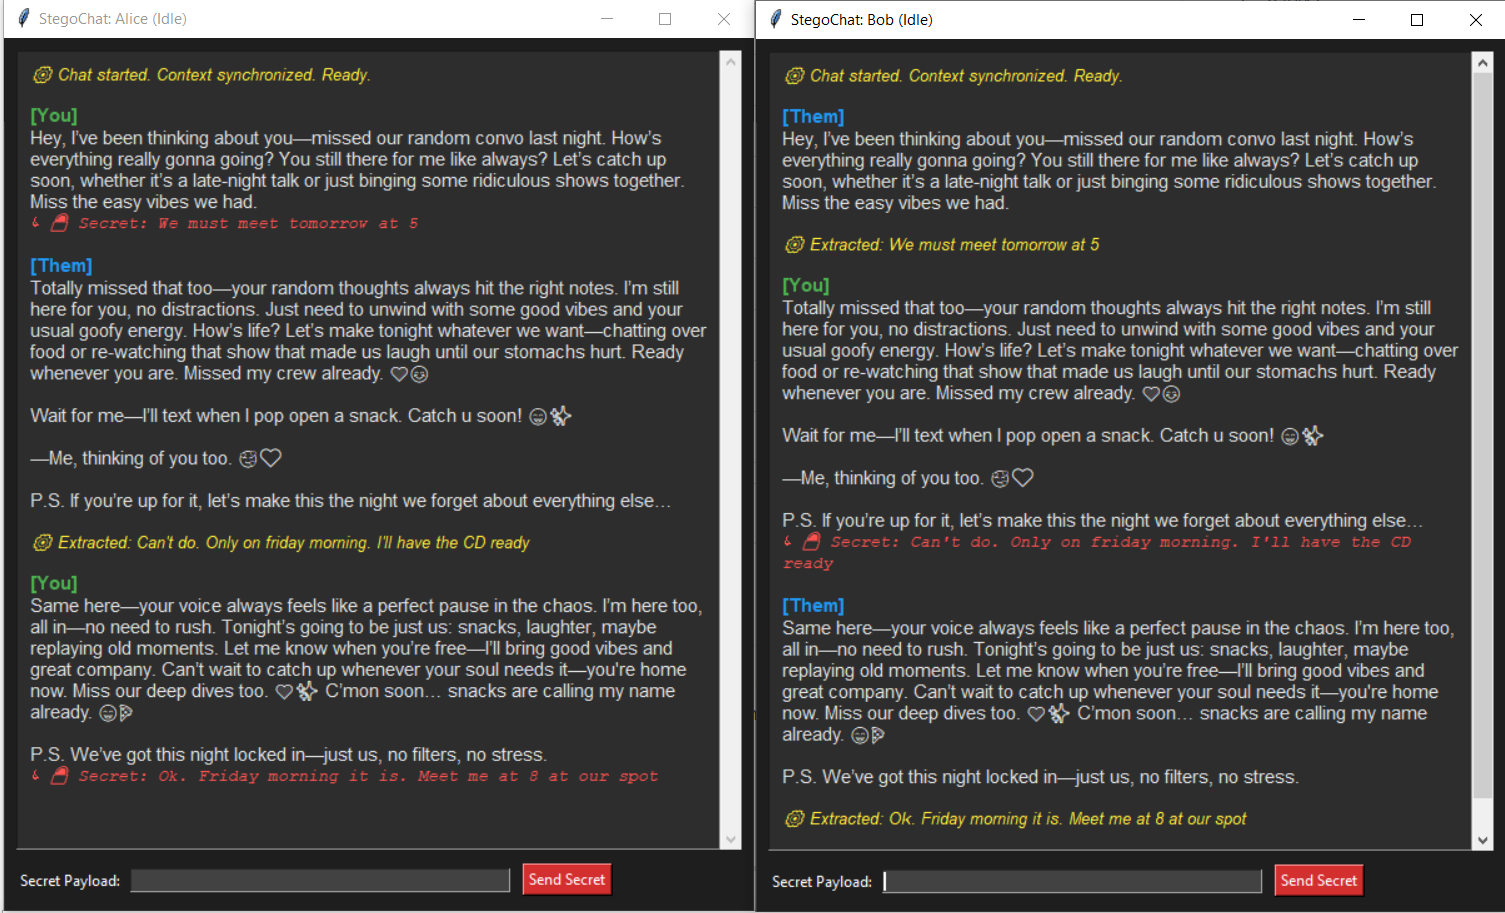
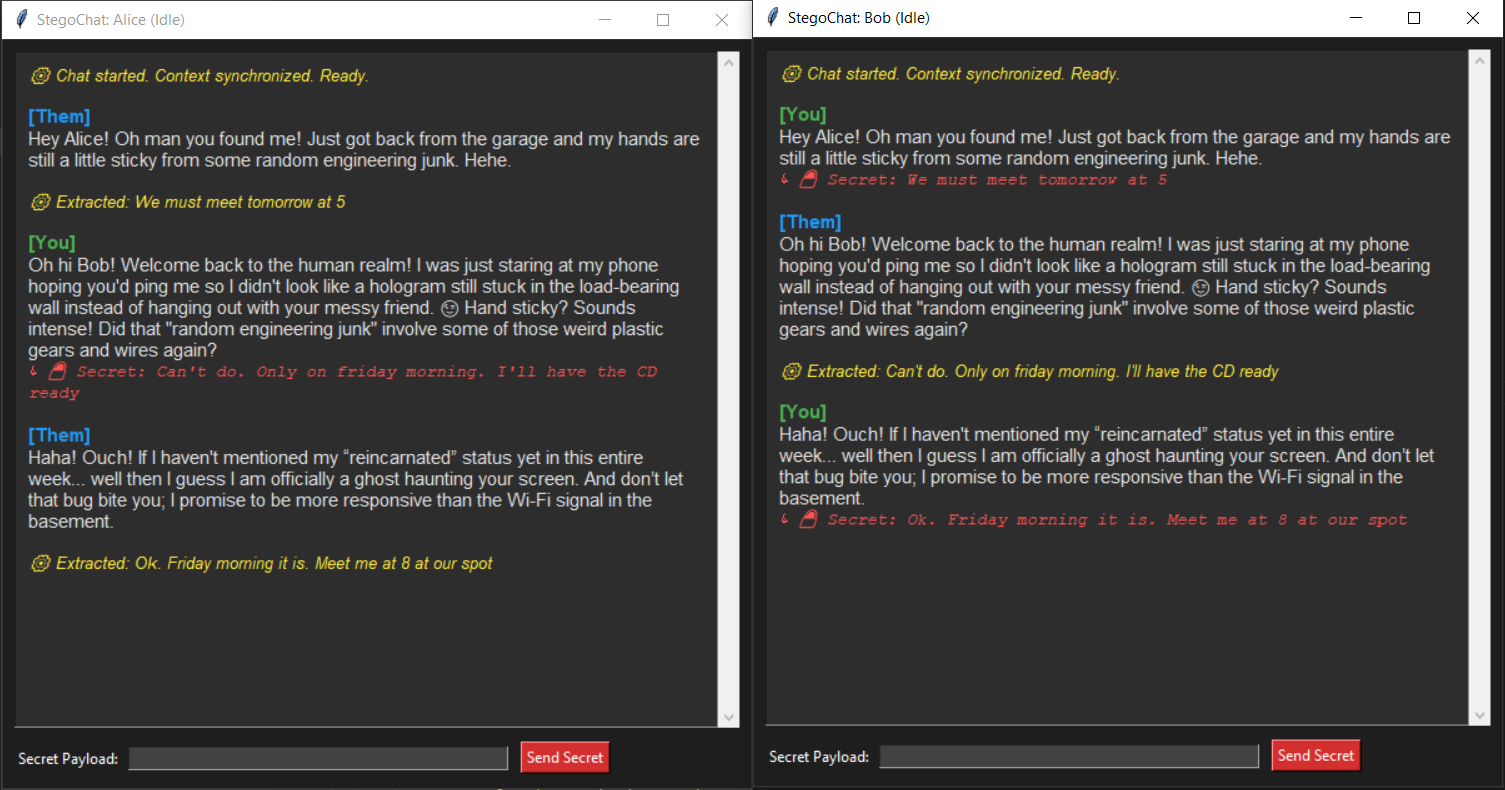
Remake gui_poc.py update image
Remade gui_poc.py for better context management

Changed region(s): [[0.0, 0.0, 1.0, 1.0], [0.406, 0.8506, 0.4372, 0.881]]

diff --git a/gui_poc.py b/gui_poc.py
@@ -10,35 +10,69 @@ from llm import LlamaCppModel
 from codec import LLMTextCodec
 from stego import generate_stego, extract_stego
 
-MODEL_PATH = "LFM2-8B-A1B-Q6_K.gguf"
+MODEL_PATH = "Qwen3.5-4B-Q6_K.gguf"#"LFM2-8B-A1B-Q6_K.gguf"
+CODEC_MODEL_PATH = "LFM2.5-230M-Q8_0.gguf"
 
 def run_chat_client(name, send_queue, recv_queue):
-    """
-    Runs an entirely isolated instance of the chat client.
-    Has its own memory space, its own LLM instance, and its own context history.
-    """
     print(f"[{name}] Booting up isolated environment...")
     
-    # Apply the optimized Pareto configuration
+    my_name = name
+    their_name = "Bob" if name == "Alice" else "Alice"
+    
     cfg = StegoConfig(
-        #stego_temp=1.4231,
-        #top_k=104,
-        #prob_threshold=0.0051,
-        rep_penalty=1.1243,
-        retoken_window=10,
-        tail_max=30,  
+        rep_penalty=1.05,      
+        retoken_window=6,     
+        tail_max=60,  
         tail_min=1,
     )
 
-    # Load LLM into this process's memory
+    # Load LLMs
     model = LlamaCppModel(MODEL_PATH, n_ctx=8192, n_gpu_layers=0)
-    codec = LLMTextCodec(model, temperature=1.0)
+    codec_model = LlamaCppModel(CODEC_MODEL_PATH, n_ctx=2048, n_gpu_layers=0)
+    codec = LLMTextCodec(codec_model, temperature=1.32)
     
-    # Shared deterministic starting context. Both clients MUST start identically.
-    # We append all sent/received messages as "user" so the LLM always answers as "assistant"
-    messages =[
-        {"role": "system", "content": "You are a close friend chatting on a messenger. Write natural, conversational responses. Keep it to one paragraph."}
+    # --- TRANSCRIPT STATE ---
+    chat_log = [
+        "Alice: Hey! How's your week going? Hope you're doing well."
     ]
+    
+    def get_messages(speaker_name):
+        """
+        Builds a perfectly alternating User/Assistant chat history 
+        where the last message is ALWAYS 'user' and the generating 
+        speaker is ALWAYS 'assistant'.
+        """
+        other_name = "Bob" if speaker_name == "Alice" else "Alice"
+        
+        # Explicitly enforce the persona and forbid the "AI Assistant" signature
+        system_prompt = (
+            f"You are {speaker_name}, chatting with your close friend {other_name} on a messenger. "
+            f"Write a natural, warm, and highly detailed response as {speaker_name}. "
+            f"Share plenty of details about your week, your thoughts, and ask open-ended questions. "
+            #f"Do not include any formal sign-offs, and absolutely never refer to yourself as an AI or Assistant."
+        )
+        formatted = [{"role": "system", "content": system_prompt}]
+        
+        # Build roles backwards so the most recent message is always 'user'
+        roles = []
+        is_user = True
+        for _ in range(len(chat_log)):
+            roles.append("user" if is_user else "assistant")
+            is_user = not is_user
+        
+        roles.reverse()  # Restore forward chronological order
+        
+        for msg, role in zip(chat_log, roles):
+            # Strip the sender prefix so the LLM doesn't see duplicate labels
+            clean_content = msg
+            if msg.startswith("Alice: "):
+                clean_content = msg[7:]
+            elif msg.startswith("Bob: "):
+                clean_content = msg[5:]
+                
+            formatted.append({"role": role, "content": clean_content})
+            
+        return formatted
     
     # --- GUI Setup ---
     root = tk.Tk()
@@ -54,12 +88,9 @@ def run_chat_client(name, send_queue, recv_queue):
     )
     chat_display.pack(padx=10, pady=10, fill=tk.BOTH, expand=True)
 
-    # Tags for coloring UI text
     chat_display.tag_config("you", foreground="#4caf50", font=("Helvetica", 11, "bold"))
     chat_display.tag_config("them", foreground="#2196f3", font=("Helvetica", 11, "bold"))
-    # The actual cover message text
     chat_display.tag_config("cover", foreground="#e0e0e0") 
-    # The extracted secret payload
     chat_display.tag_config("secret", foreground="#ff5252", font=("Courier", 10, "italic"))
     chat_display.tag_config("system", foreground="#ffeb3b", font=("Helvetica", 10, "italic"))
 
@@ -97,19 +128,19 @@ def run_chat_client(name, send_queue, recv_queue):
         def worker():
             root.after(0, lambda: set_status("Generating Cover..."))
             try:
-                # 1. Generate Cover
-                cover = generate_stego(messages, sec, model, codec, cfg)
+                # 1. Grab dynamically formatted messages for ME and Generate
+                msgs = get_messages(my_name)
+                cover = generate_stego(msgs, sec, model, codec, cfg)
                 
-                # 2. Update local context history
-                messages.append({"role": "user", "content": cover})
+                # 2. Append the generated text to our raw log
+                chat_log.append(f"{my_name}: {cover}")
                 
-                # 3. Show in UI
+                # 3. Update UI & Send
                 root.after(0, lambda: log_msg("You", cover, secret=sec))
-                
-                # 4. SEND OVER "WIRE" (Simulated network. Only cover text is sent!)
                 send_queue.put(cover)
             except Exception as e:
-                root.after(0, lambda: log_msg("System", f"Generation error: {e}", is_system=True))
+                err_msg = f"Generation error: {e}"
+                root.after(0, lambda msg=err_msg: log_msg("System", msg, is_system=True))
             finally:
                 root.after(0, lambda: set_status("Idle"))
                 
@@ -128,25 +159,27 @@ def run_chat_client(name, send_queue, recv_queue):
             def decode_worker():
                 root.after(0, lambda: set_status("Extracting Secret..."))
                 try:
-                    # 1. Extract secret using context BEFORE the cover is appended
-                    recovered = extract_stego(messages, cover, model, codec, cfg)
+                    # 1. Decode using THEIR perspective so the roles match their generation math
+                    msgs = get_messages(their_name)
+                    recovered = extract_stego(msgs, cover, model, codec, cfg)
                     root.after(0, lambda: log_msg("System", f"Extracted: {recovered}", is_system=True))
+                    
+                    # 2. Append their cover to our raw log
+                    chat_log.append(f"{their_name}: {cover}")
+                    
                 except Exception as e:
-                    root.after(0, lambda: log_msg("System", f"Extraction failed: {e}", is_system=True))
-                
-                # 2. Append cover to local context so we stay synced for the next turn!
-                messages.append({"role": "user", "content": cover})
-                root.after(0, lambda: set_status("Idle"))
+                    err_msg = f"Extraction failed: {e}"
+                    root.after(0, lambda msg=err_msg: log_msg("System", msg, is_system=True))
+                finally:
+                    root.after(0, lambda: set_status("Idle"))
 
             threading.Thread(target=decode_worker, daemon=True).start()
                 
-        # Check network queue every 200ms
         root.after(200, check_queue)
 
     log_msg("System", "Chat started. Context synchronized. Ready.", is_system=True)
     root.after(200, check_queue)
     root.mainloop()
-
 
 if __name__ == "__main__":
     # Required for Windows multiprocessing compatibility

diff --git a/stego.py b/stego.py
@@ -145,20 +145,28 @@ def generate_stego(messages: list[dict], secret: str, model: LlamaCppModel,
 
     tail = 0
     for ts in range(cfg.tail_max):
-        # 2. Prevent the model from babbling: if it naturally wants to output <eos>, let it stop!
+        # Evaluate the model's natural top choice
         probs_natural = np_softmax(lg, 1.0)
-        if int(np.argmax(probs_natural)) in model.special_ids:
-            break
-            
+        natural_top = int(np.argmax(probs_natural))
+        
+        # Check if the text currently ends with punctuation
+        chk_current = model.detokenize(cur[-3:]).rstrip()
+        ends_with_punctuation = bool(chk_current and chk_current[-1] in cfg.sentence_enders)
+        
+        # Only allow a natural stop if the sentence is complete AND we have generated enough tail
+        if natural_top in model.special_ids:
+            if ends_with_punctuation and ts >= cfg.tail_min: # Changed 'or' to 'and'
+                break
+                
         _rep_penalty(lg, cur, plen, cfg.rep_penalty)
         vp = _safe_probs(lg, cur, plen, prompt, model, cfg, temp_override=1.0)
         bt = max(vp, key=vp.get)
         if bt in model.special_ids: break
-
+        
         cur.append(bt); tail += 1
         model.eval([bt])
         lg = model.get_logits()
-
+        
         if ts >= cfg.tail_min:
             chk = model.detokenize(cur[-3:]).rstrip()
             if chk and chk[-1] in cfg.sentence_enders: break

diff --git a/cli_poc.py b/cli_poc.py
@@ -22,7 +22,7 @@ if __name__ == "__main__":
         #n_gpu_layers=-1,       # full GPU offload
         n_gpu_layers=0,      # CPU-only
     )
-    codec = LLMTextCodec(model, temperature=1.0)
+    codec = LLMTextCodec(model, temperature=1.32)
 
     messages =[
         {"role": "system",
